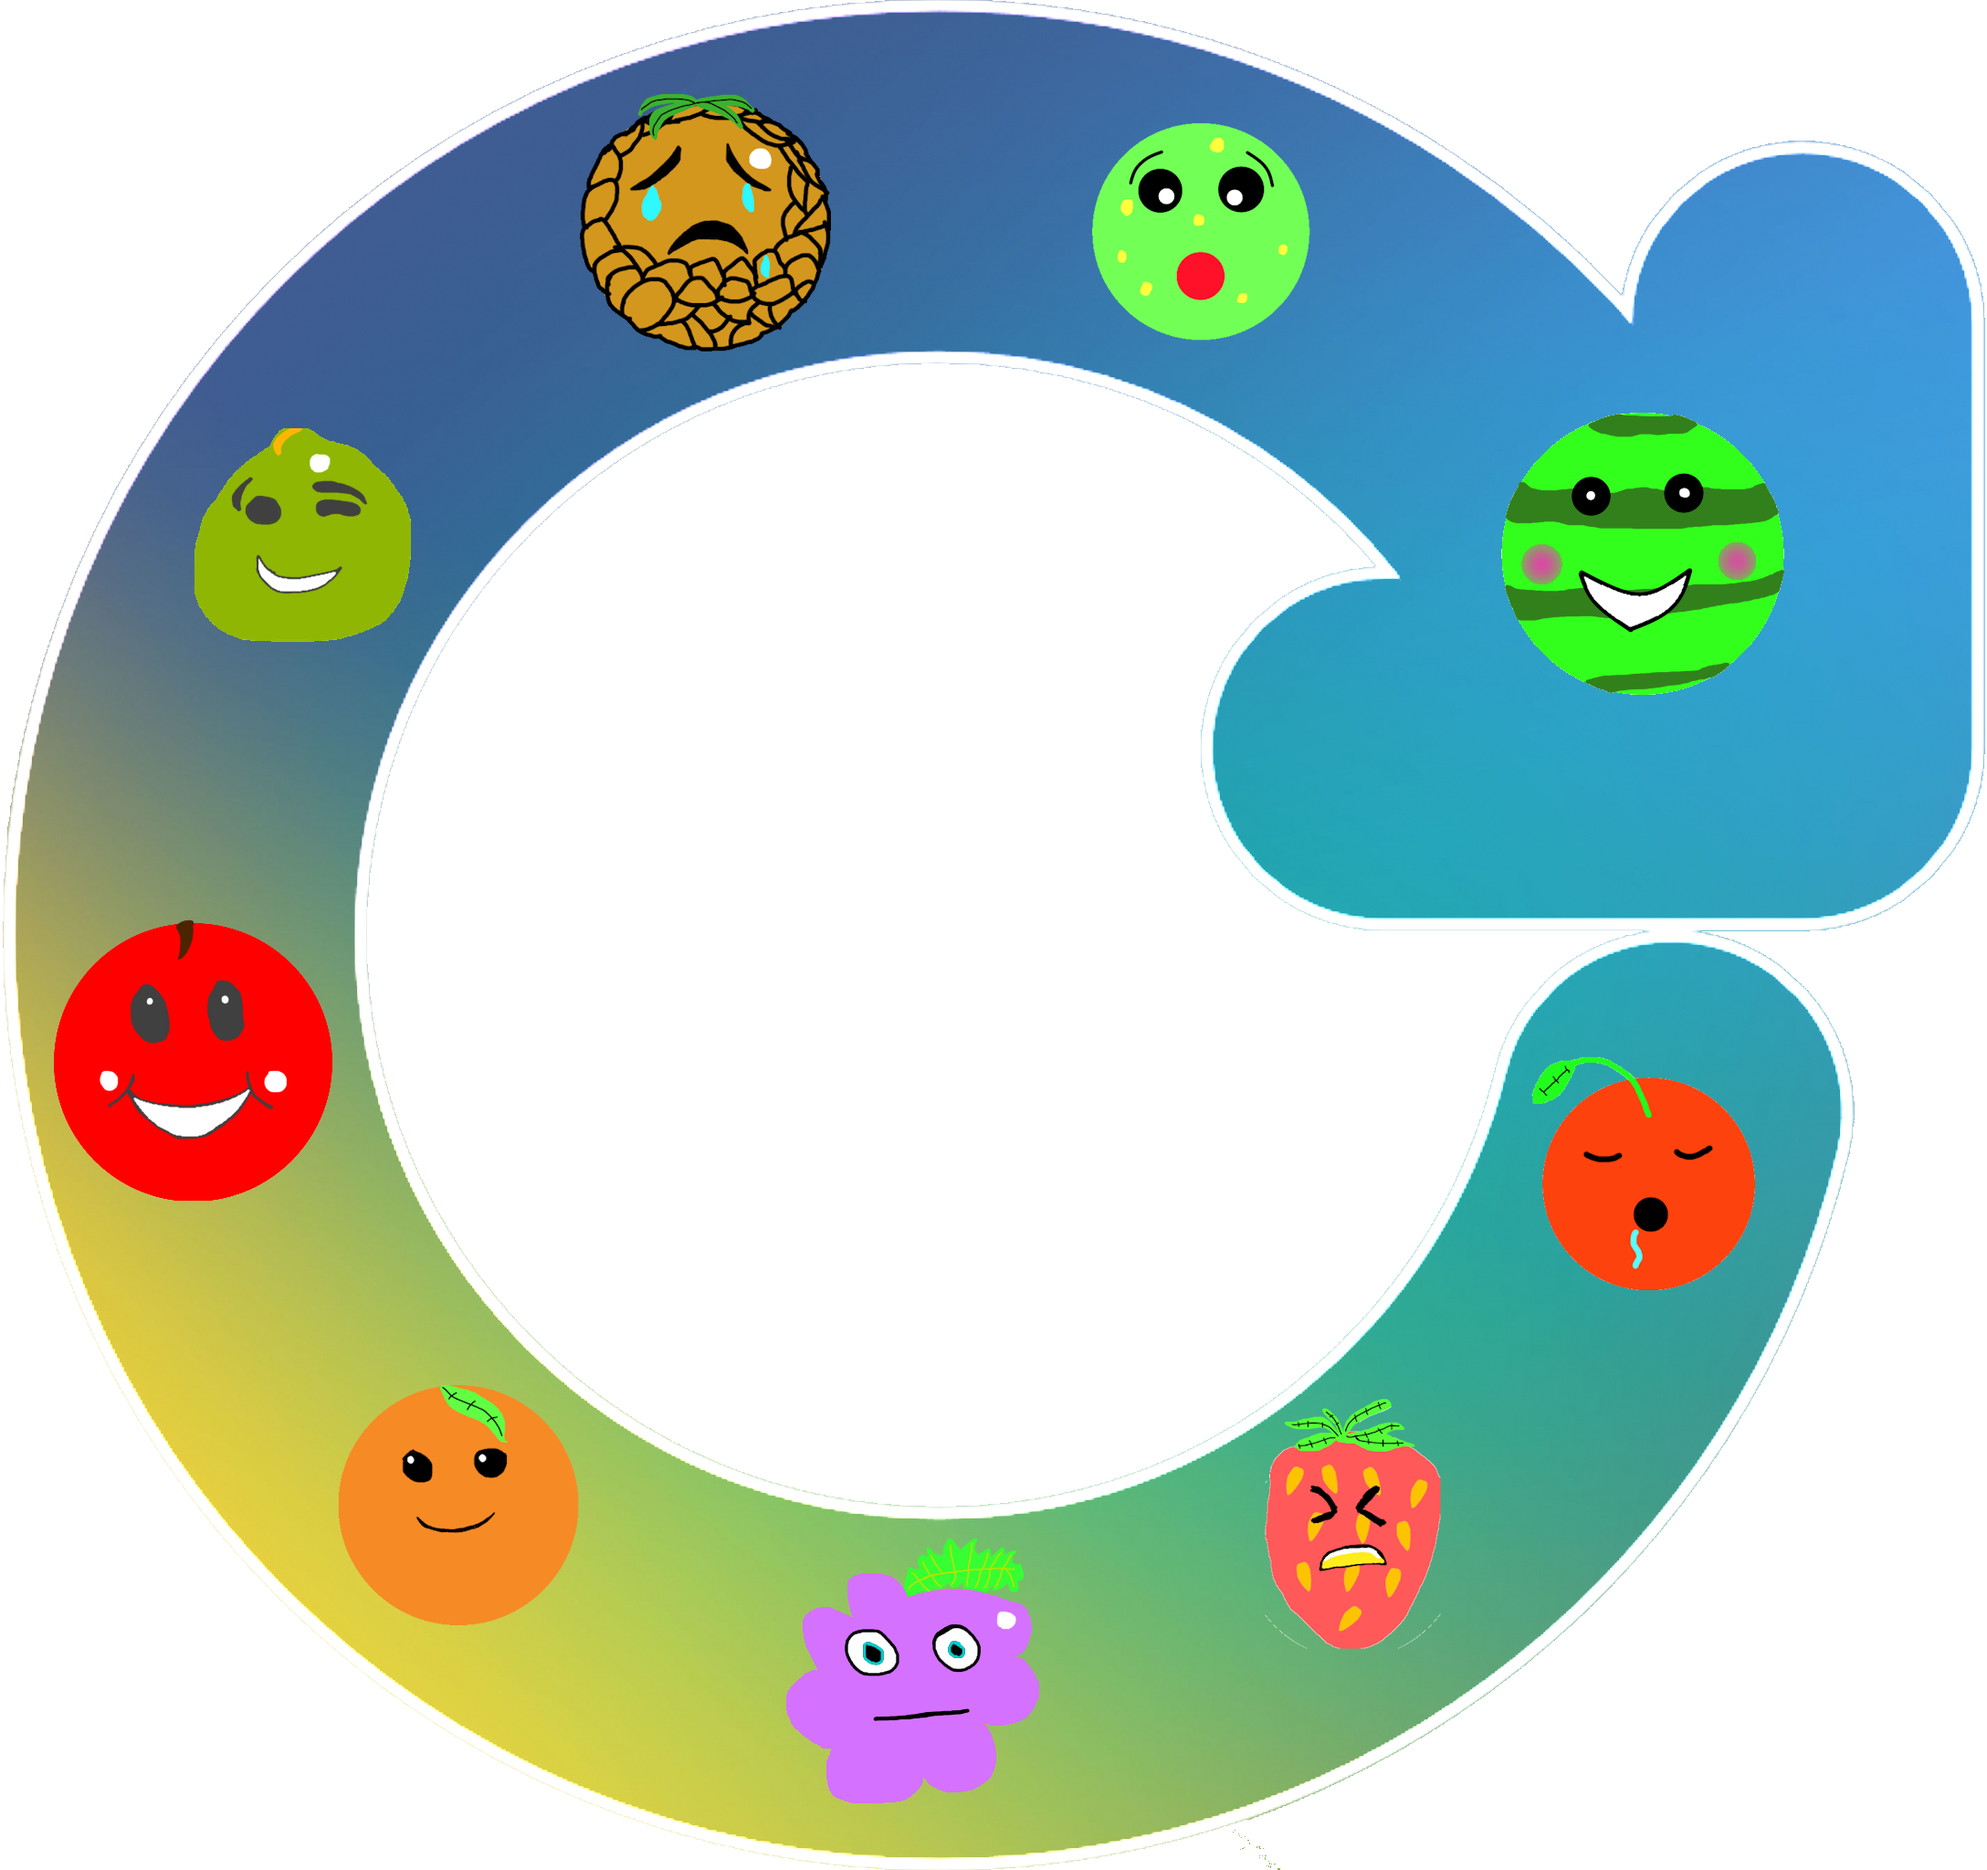
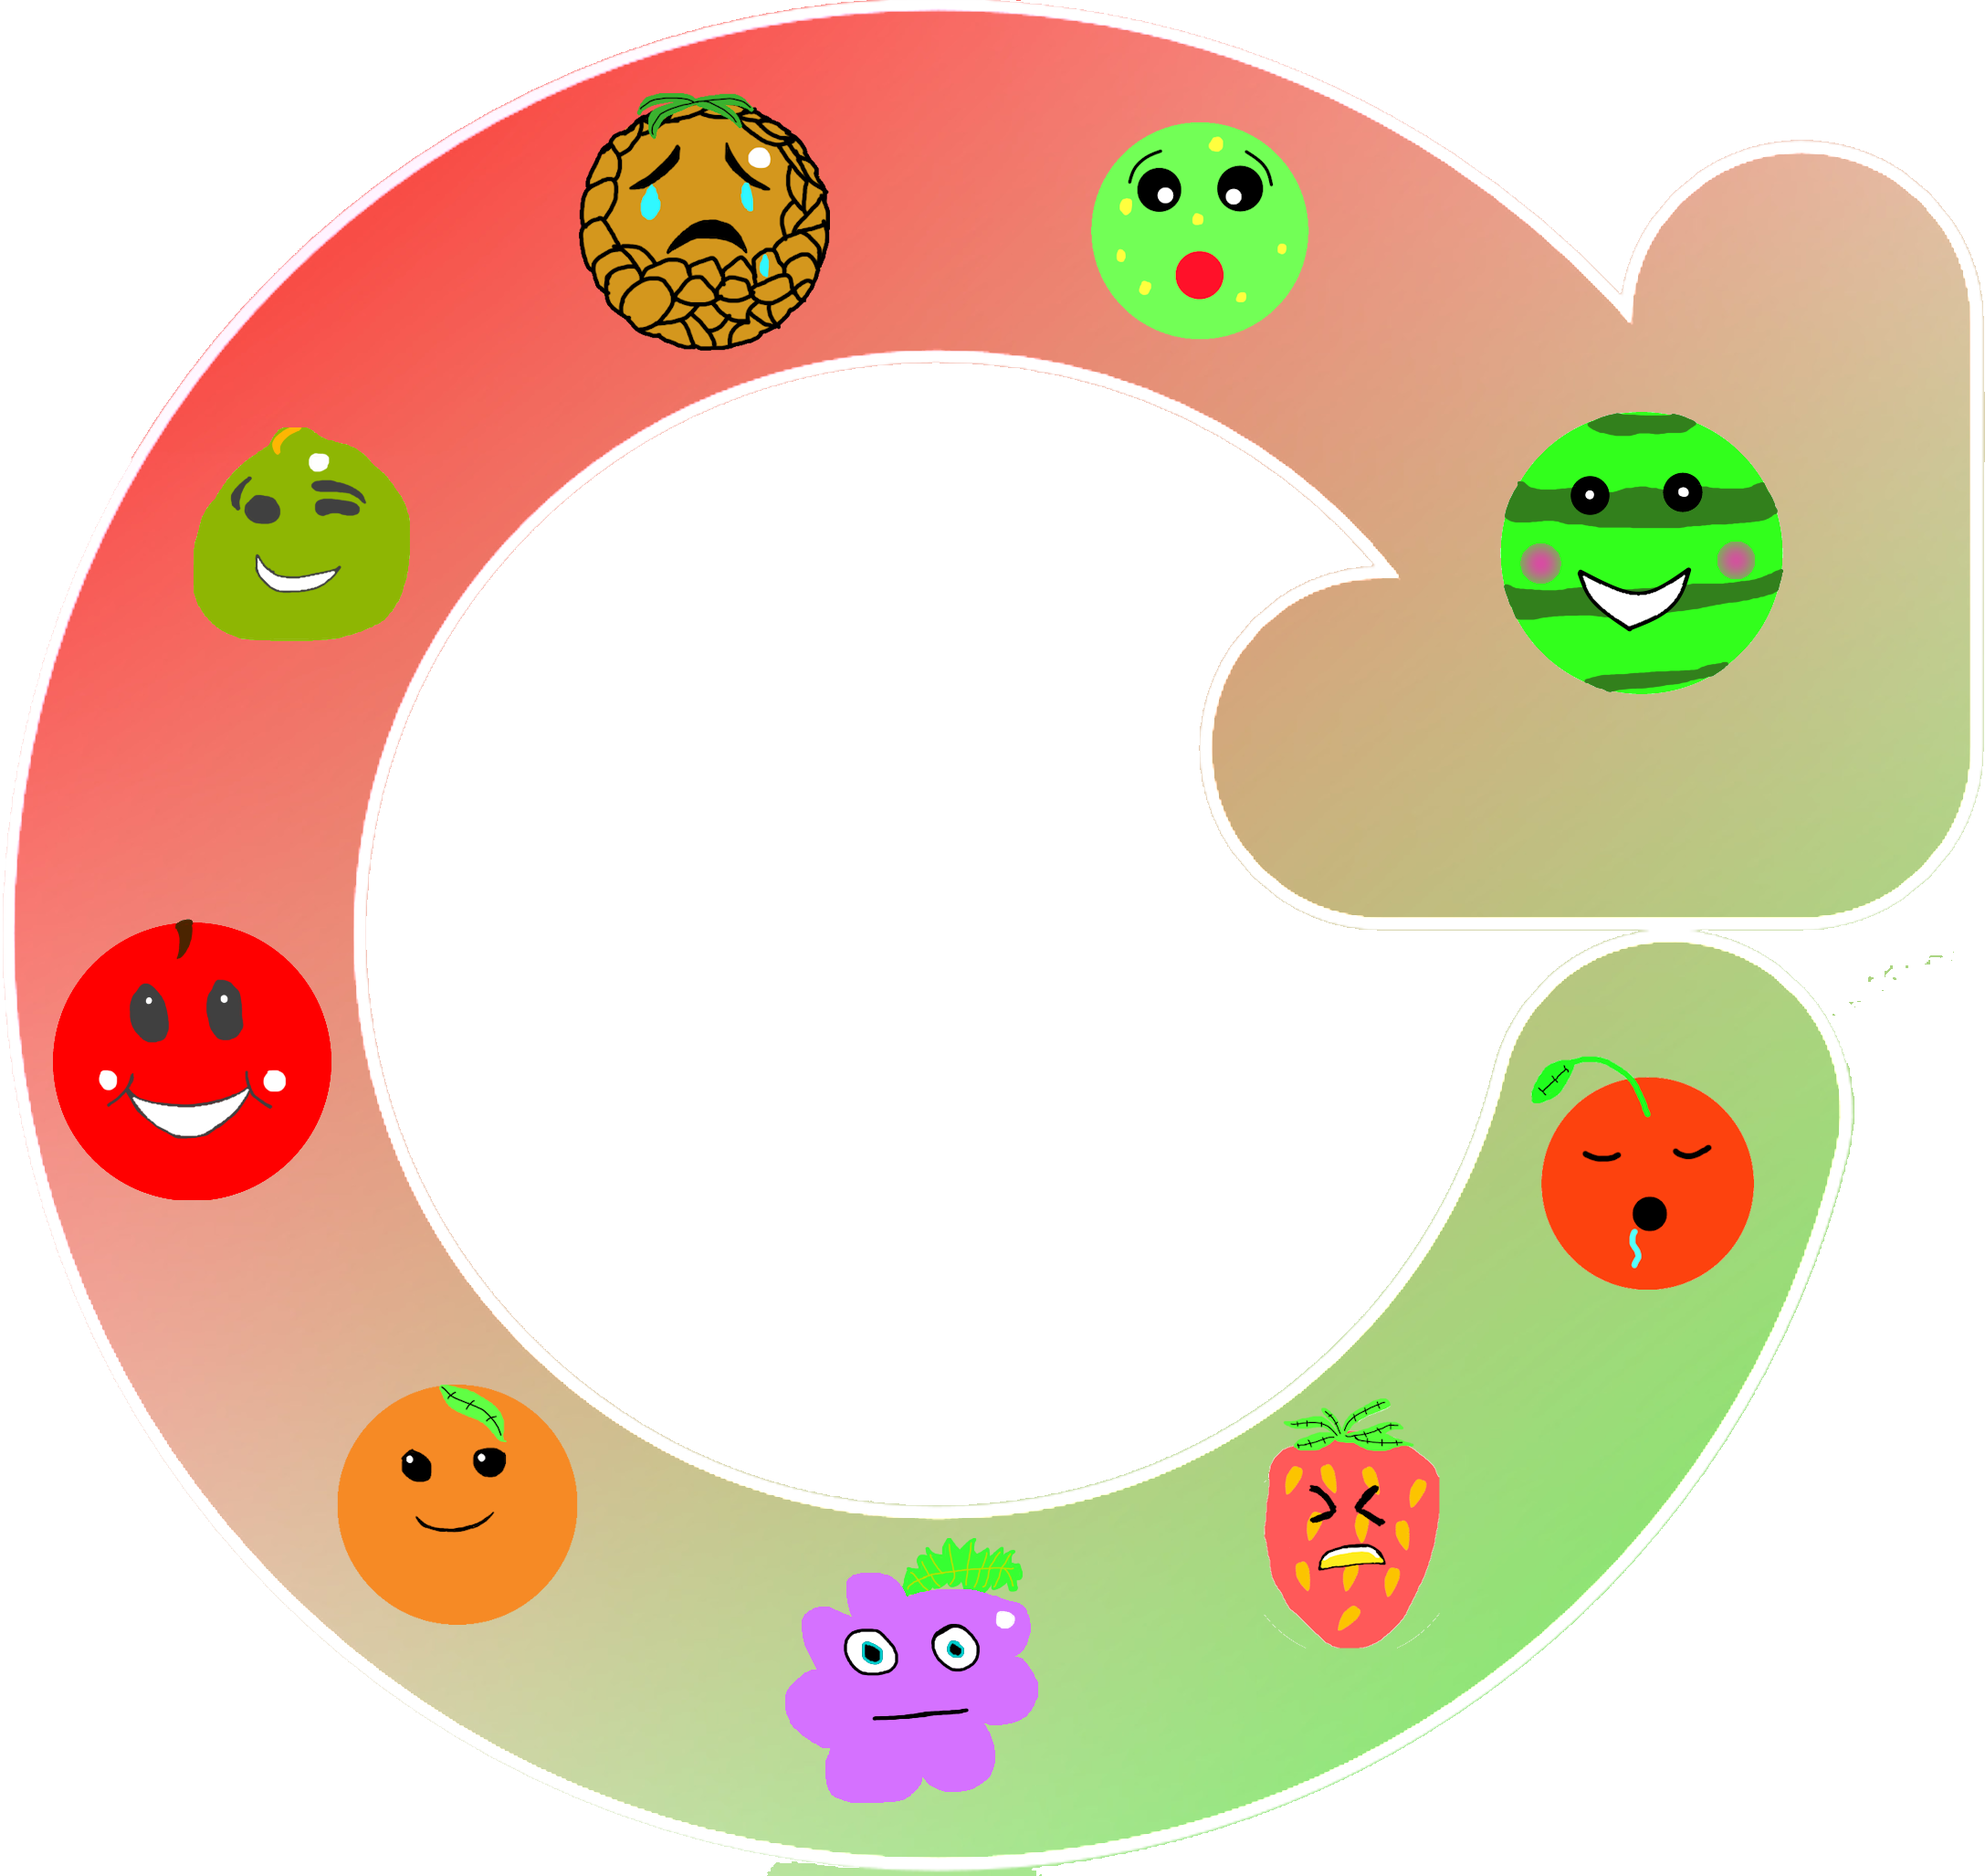
changing background color to gradient

diff --git a/app/play/page.tsx b/app/play/page.tsx
@@ -212,19 +212,19 @@ export default function Game() {
     }, []);
 
     return (
-        <main className="flex flex-row flex-wrap items-center justify-center bg-amber-100">
+        <main className="flex flex-row flex-wrap items-center justify-center bg-[radial-gradient(circle,rgba(178,255,187,1)_0%,rgba(255,146,138,1)_100%)]">
             <div className="m-12 mt-0 mb-0">
                 <div className="flex flex-col items-center">
                     <h3 className="text-center text-stroke-black text-stroke-1 text-white text-base font-bold">
                         Score
                     </h3>
-                    <div className="p-1 m-1 mt-0 font-extrabold text-white rounded-lg w-6/12 text-right bg-gradient-to-t from-amber-700 to-amber-300">
+                    <div className="p-1 m-1 mt-0 font-extrabold text-white rounded-lg w-6/12 text-right bg-gradient-to-t from-red-700 to-red-300">
                         <h4 ref={score} className="text-sm">
                             0
                         </h4>
                     </div>
                 </div>
-                <div className="flex items-center justify-center rounded-full border-8 border-white p-8 m-5 from-amber-500 bg-gradient-to-tl via-white">
+                <div className="flex items-center justify-center rounded-full border-8 border-white p-8 m-5 from-red-500 bg-gradient-to-tl via-white">
                     <img
                         ref={nextimage}
                         src="/apple.png"

diff --git a/tailwind.config.ts b/tailwind.config.ts
@@ -10,7 +10,10 @@ const config: Config = {
         extend: {
             backgroundImage: {
                 "gradient-radial": "radial-gradient(var(--tw-gradient-stops))",
-                "gradient-conic": "conic-gradient(from 180deg at 50% 50%, var(--tw-gradient-stops))"
+                "gradient-conic": "conic-gradient(from 180deg at 50% 50%, var(--tw-gradient-stops))",
+                "stacked-steps": "url('/stacked-steps-haikei.png')",
+                "radiant-gradient": "url('/radiant-gradient.png')",
+                "liquid-cheese": "url('/liquid-cheese.png')"
             },
             aspectRatio: {
                 "4/5": "4 / 5"

diff --git a/app/page.tsx b/app/page.tsx
@@ -2,7 +2,7 @@ import Link from "next/link";
 
 export default function Home() {
     return (
-        <main className="flex min-h-screen flex-col bg-amber-100">
+        <main className="flex min-h-screen flex-col bg-[radial-gradient(circle,rgba(178,255,187,1)_0%,rgba(255,146,138,1)_100%)]">
             <section className="flex flex-col items-center my-40">
                 <h1 className="text-xl text-center text-rose-500 text-stroke-2 text-stroke-green-400 font-extrabold sm:text-mxl">
                     Watermelon Game

diff --git a/app/help/page.tsx b/app/help/page.tsx
@@ -1,6 +1,6 @@
 export default function Help() {
     return (
-        <main className="flex min-h-screen flex-col items-center justify-between p-24 bg-amber-100">
+        <main className="flex min-h-screen flex-col items-center justify-between p-24 bg-[radial-gradient(circle,rgba(178,255,187,1)_0%,rgba(255,146,138,1)_100%)]">
             <p>Help Page</p>
         </main>
     );
